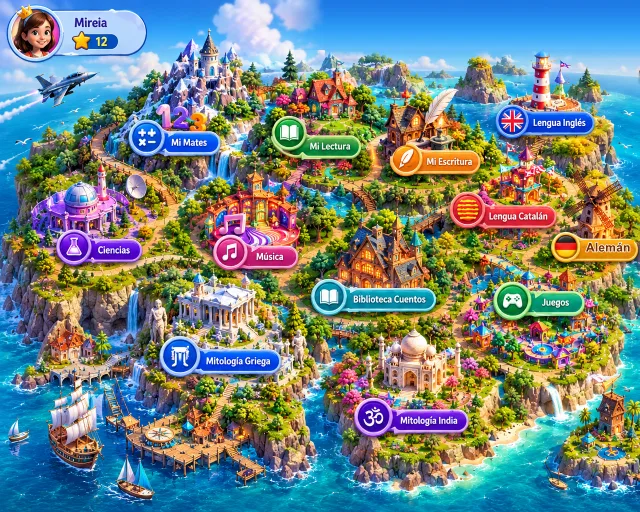
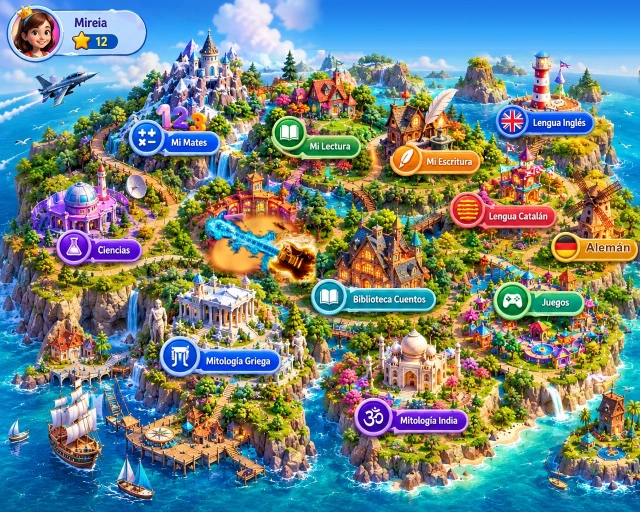
Sustituye el cartel rosa de Musica por la guitarra de fuego en el mapa

Changed region(s): [[0.3125, 0.4062, 0.5, 0.5625]]

diff --git a/ESTADO-PROYECTO.md b/ESTADO-PROYECTO.md
@@ -128,6 +128,7 @@ Cambiar `guest` por `mireia` o `sofia` para probar cada perfil.
 | H42 | Isla Real Madrid: escudo giratorio con transparencia | **Publicado el 24/11/2026 en GitHub Pages en `5e0aa8b`** y verificado en producción: a petición del usuario (24/11) la placa-recuadro se sustituye por el **escudo girando con el fondo transparente**. Se partió del GIF de gifs-animados.net (292×411, 18 fotogramas de 0,14 s, 32 colores por fotograma), se recortó la franja de la marca de agua (292×392) y se rellenó desde los bordes solo el blanco exterior, de modo que los blancos internos del escudo se conservan. Se reduce a 120×161 con media de área y alfa suave y se publica como WebP animado (`escudo-girando.webp`, 85.384 B) con PNG de reserva (`escudo-girando.png`, 19.429 B) mediante `<picture>`. En `peques/mundo-mireia.html` el botón `.zone-rm` sigue en el mismo punto (16 %, 73 %), mide 1,5 × 2,01 cm (1,35 × 1,81 cm en ≤600 px) y la sombra pasa de la tarjeta a `filter: drop-shadow`. Verificado en local a 1280 y 390 px: el mapa se ve detrás del escudo sin halo, la animación cambia entre fotogramas, clic → `areas-test.html?area=real-madrid`, entrada «Real Madrid · Cromos y juegos» (⚽) en la lista móvil, sin desbordamiento horizontal ni errores de consola; capturas en `qa/shots/isla-rm-contexto-1280.png`, `isla-rm-x1.png`, `isla-rm-x2.png` e `isla-rm-390.png`. Producción verificada: `escudo-girando.webp` 200 (85.384 B), `escudo-girando.png` 200 (19.429 B) y `mundo-mireia.html` 200; el navegador usa el WebP (120×161), la animación cambia, el clic abre `areas-test.html?area=real-madrid&profile=guest` y no hay errores de consola; captura en `qa/shots/produccion-isla-rm-1280.png`. El GIF con fondo blanco sigue en el repositorio, ya sin uso. |
 | H43 | Real Madrid Cromos: cartas de dos caras de Raúl y Di Stéfano | **Publicado el 25/11/2026 en GitHub Pages en `bc15fd4`** y verificado en producción. A petición del usuario («esto es lo que busco y necesito, ni un porciento menos ni diferente») se integran sus diseños de carta doble: `Raul.jpeg` y `Di stefano.jpeg` (1536×1024, anverso + reverso con fondo blanco). Se separan las dos caras por el hueco central con el encuadre exacto de cada carta (margen 8 px + hueco 16 px): **752×1008 px** por cara, sin recortar diseño, guardadas como JPEG de calidad 95 en `assets/players/raul-gonzalez/anverso.jpg`/`reverso.jpg` y `assets/players/alfredo-di-stefano/anverso.jpg`/`reverso.jpg`. `players.json`: `cardImageFront`/`cardImageBack`, `number` 7 y 9, `assetPending:false`. En `index.html` el anverso se muestra en MADRID y el reverso en TODOS, sin placas ni datos HTML superpuestos; el panel HTML se conserva para CR7 y las cartas pendientes y se oculta (`#backPhoto`) en las de dos caras. El ancho de carta pasa a una variable `--cromo-w` compartida por anverso y reverso (incluida la regla de altura ≤820 px) para que el giro no cambie de tamaño. QA ampliado a 11 reglas (dorsales, imágenes por cara y carga real 752×1008): 11 PASS. Verificado a 1280×1000, 1280×900, 390 y 320 px: anverso y reverso miden lo mismo, la altura del escenario coincide, sin recortes, sin desbordamiento y sin errores de consola. Capturas: `qa/shots/carta-raul-anverso-1280x1000.png`, `carta-raul-reverso-1280x1000.png`, `carta-di-stefano-anverso-1280.png`, `carta-di-stefano-reverso-1280.png`, `carta-raul-anverso-390.png` y `carta-raul-reverso-390.png`. Producción verificada: las 4 imágenes responden 200; con Guest, Raúl (03) y Di Stéfano (02) giran con anverso y reverso de 752×1008 al mismo tamaño y sin errores de consola; capturas `qa/shots/produccion-carta-raul-anverso-1280.png`, `produccion-carta-raul-reverso-1280.png`, `produccion-carta-di-stefano-anverso-1280.png` y `produccion-carta-di-stefano-reverso-1280.png`. Pendiente: diseño doble de CR7 (solo existe la carta de una cara) y las otras 7 cartas. |
 | H44 | Navegación de perfiles: confirmar salida de los juegos y PIN siempre al entrar | **Publicado el 26/11/2026 en GitHub Pages en `4cbfec9`, `cefbe80` y `9082319`** y verificado en producción. A petición del usuario: (1) nuevo popup propio en `peques/exit-confirm.js` (no el `confirm()` nativo) con «Sí» a la izquierda y «No» a la derecha, en botones separados (hueco de 18 px y 52 px de alto), foco inicial en «No», Escape o toque en el fondo responden «No» y el tabulador queda atrapado entre ambos; se activa con `data-confirm-exit` en los controles de vuelta de los juegos (`index.html`, abecedario, aventura, áreas, escritura, lectura, mates, idiomas, puzzles, banderas, evento especial, Naruto, Penalti, cromos, ¿Qué hora es?, Sakura, Mira lo que se y ¿Qué haces, Mireia?) y se carga desde `progress-shared.js`, así que funciona también en subcarpetas; (2) al confirmar la salida de un juego de Sofía se marca `sessionStorage['mundoAprendizajeReturnSofia']` y su portada se restaura sin PIN, pero al entrar desde el selector el PIN se pide siempre (el flag solo se escribe si la página es de Sofía); (3) `switchProfile` y el botón «👧 Cambiar perfil» de Mireia piden confirmación antes de limpiar la sesión y volver al selector; (4) `mundo-mireia.html?profile=sofia` redirige a `index.html?profile=sofia`. Verificado en local: «Sí» a la izquierda (x 310–491) y «No» a la derecha (x 509–690), «No» mantiene el juego, «Sí» vuelve a la portada sin PIN, sin flag + sesión válida se muestra el selector con PIN y 0 errores de consola en las páginas probadas. En producción se detectó que el cargador asíncrono de `progress-shared.js` podía llegar tarde al primer clic; se corrigió añadiendo `<script src="exit-confirm.js" defer>` en las 17 páginas afectadas (`evento-especial.html` no lo cargaba de ninguna forma) y `../exit-confirm.js` en `real-madrid-cromos`, con guarda de idempotencia para no duplicar manejadores. Verificado en producción: el popup aparece en el primer clic, «No» permanece en el juego, «Sí» vuelve a la portada de Sofía sin PIN, sin flag se muestra el selector y no hay errores de consola. |
+| H45 | Mapa de Mireia: la guitarra de fuego sustituye al cartel rosa «Música» | A petición del usuario (27/11): cambiar el cartel rosa «Música» del mapa por su guitarra de fuego, con fondo transparente. El cartel estaba **pintado dentro de la imagen del mapa** (píldora magenta ≈ x 424–606, y 414–546, con la nota musical grande y el texto «Música»), no era HTML: el botón `.zone` de Música (línea 111 de `peques/mundo-mireia.html`, `left:40.8%; top:51%; width:14.4%`) es transparente y sin texto. Recorte de la guitarra hecho en el navegador con canvas sobre el fotograma 0 del GIF del usuario (302×184, 9 fotogramas): se borra la marca de agua azul de la esquina, se separa el fondo con un *flood fill* desde los bordes con umbral de luminancia 112, se suaviza el alfa (2 pasadas), se difumina el borde exterior 11 px (el humo toca los bordes del GIF y dejaba cortes rectos) y se dilatan los colores 4 pasadas para eliminar el halo negro; resultado `qa/guitar/guitarra-final.png`. Se descartó reconstruir la zona por *inpainting*: se probaron relleno direccional, IDW, armónico (Laplace) y síntesis de parches tipo exemplar y todos dejaban vetas o una mancha rectangular, porque el cartel tapa fachada, escenario y vegetación a la vez. Solución final: la guitarra se compone sobre un **resplandor de brasas** cálido (tres elipses con ruido suave, opaco en el centro y difuminado en el borde) que cubre exactamente el cartel y la insignia, de modo que desaparecen el rosa y el texto sin tocar el resto del mapa. La guitarra mide 228×139 px naturales, centrada en (522, 500) — ≈17,8 % del ancho, en la línea de las demás etiquetas pintadas del mapa — y queda algo mayor que el escudo del Real Madrid (1,5 cm) porque a ese tamaño no cubriría el cartel. Regenerados desde el navegador: `peques/fondomundomireia-fallback.jpg` (JPEG q0.92) y `peques/imagenes/fondomundomireia-1280.webp`, `-960.webp` y `-640.webp` (WebP q0.93); los originales quedan en `qa/guitar/backup/`. Verificado en local a 832 px de ancho de ventana y con el mapa a 390 y 320 px: no queda nada del cartel rosa, la guitarra se ve nítida en las cuatro variantes, el clic sigue abriendo `areas-test.html?area=musica`, sin errores de consola. |
 
 ### En curso
 

diff --git a/peques/PLAN.md b/peques/PLAN.md
@@ -1730,3 +1730,15 @@ Los periodos anteriores son los acordados para la disponibilidad especial; no mo
 
 - Publicado en `main` el 26/11/2026 en `4cbfec9` (popup y flujo), `cefbe80` (carga con `defer` en las páginas afectadas) y `9082319` (los cuatro juegos del hub «¿Qué hora es?»); verificado en GitHub Pages: el popup aparece en el primer clic, «No» permanece, «Sí» vuelve a la portada sin PIN, sin flag se muestra el selector y no hay errores de consola.
 - El flujo con PIN real solo puede probarse con el PIN del usuario; las pruebas automatizadas usan sesiones locales de revisión.
+
+---
+
+## Guitarra de fuego en el mapa de Mireia (27-28/11/2026)
+
+El cartel rosa «Música» del mapa estaba pintado dentro de `fondomundomireia` (píldora magenta en x 424-606, y 414-546, más la nota musical grande). El botón `.zone` de Música es transparente, así que el texto visible era parte de la imagen.
+
+- Recorte de la guitarra en el navegador (canvas): fotograma 0 del GIF del usuario (302x184), marca de agua borrada, fondo separado con flood fill desde los bordes (umbral de luminancia 112), alfa suavizado 2 pasadas, borde exterior difuminado 11 px y dilatación de color 4 pasadas para quitar el halo negro. Resultado: `qa/guitar/guitarra-final.png`.
+- El relleno por inpainting se descartó tras probar relleno direccional, IDW, armónico y síntesis de parches: todos dejaban vetas o una mancha rectangular.
+- Solución: la guitarra se compone sobre un resplandor de brasas (tres elipses con ruido suave) que tapa el cartel y la insignia. Guitarra de 228x139 px naturales centrada en (522, 500).
+- Regenerados `peques/fondomundomireia-fallback.jpg` (JPEG q0.92) y `peques/imagenes/fondomundomireia-{1280,960,640}.webp` (WebP q0.93). Originales en `qa/guitar/backup/`.
+- Verificado en local a 832, 390 y 320 px: sin rastro del cartel rosa, clic correcto a `areas-test.html?area=musica` y 0 errores de consola.
